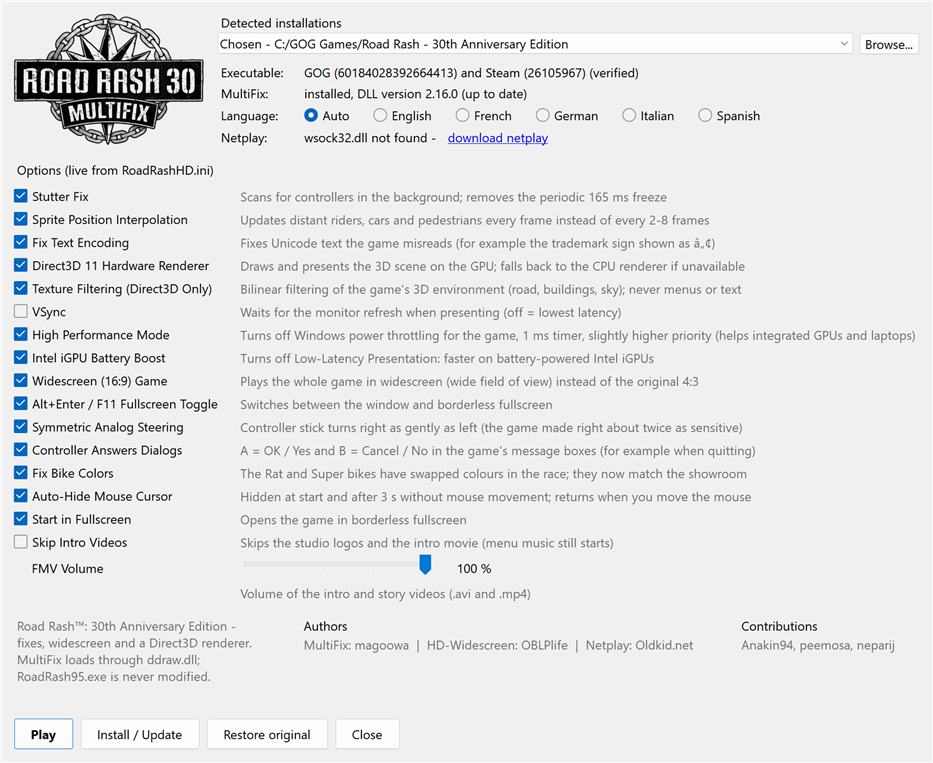
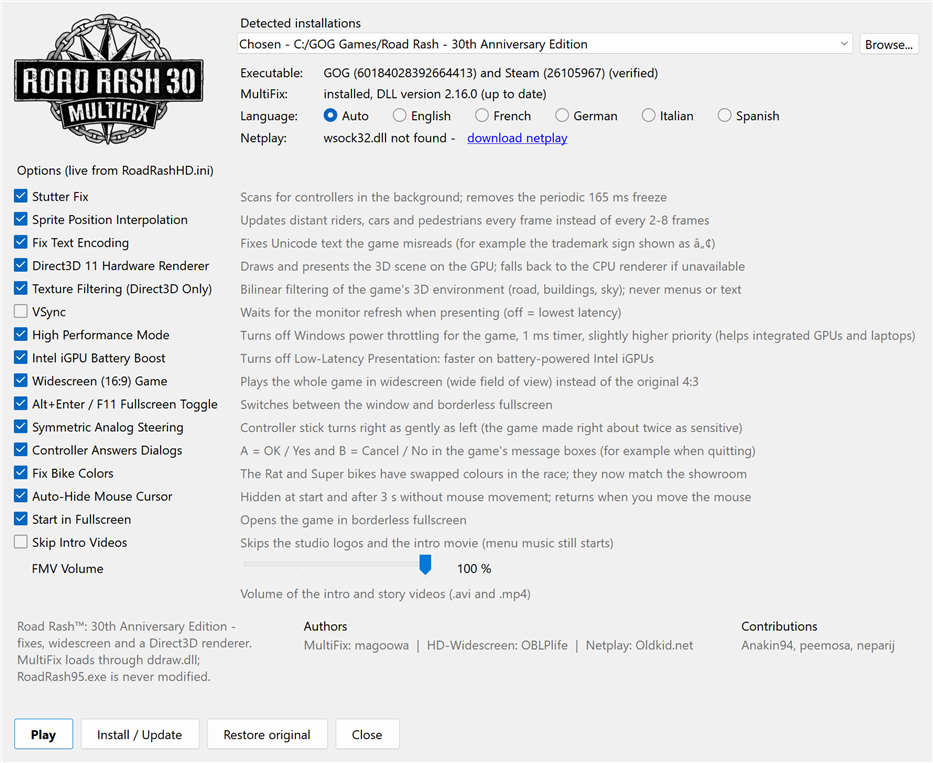
2.16.0: themed dialogs, commented ini, file properties, Steam Deck install script, window mode fix

Changed region(s): [[0.2176, 0.0, 0.8392, 0.211]]

diff --git a/PatchWindow.cs b/PatchWindow.cs
@@ -67,7 +67,7 @@ internal sealed class PatchWindow : Form
 
         // Top block: the logo on the left (a click opens the project page), installations and info on the right.
         var head = new TableLayoutPanel { Name = "HeadTable", AutoSize = true, AutoSizeMode = AutoSizeMode.GrowAndShrink, ColumnCount = 2, Dock = DockStyle.Fill, Margin = new Padding(0, 0, 0, m) };
-        head.ColumnStyles.Add(new ColumnStyle(SizeType.AutoSize)); head.ColumnStyles.Add(new ColumnStyle(SizeType.Percent, 100F));
+        head.ColumnStyles.Add(new ColumnStyle(SizeType.Absolute, 100F)); head.ColumnStyles.Add(new ColumnStyle(SizeType.Percent, 100F));   // first column: as wide as the option names, so the info block starts on the description column
         try
         {
             using (var stream = Assembly.GetExecutingAssembly().GetManifestResourceStream("logo.png"))
@@ -153,6 +153,14 @@ internal sealed class PatchWindow : Form
         credits.Controls.Add(new Label { Name = "ContributionsLabel", Text = "Anakin94, peemosa, neparij", AutoSize = true, ForeColor = SystemColors.GrayText, Margin = new Padding(0) }, 1, 1);
         footer.Controls.Add(credits, 1, 0);
         root.Controls.Add(footer);
+        // Only the info block at the top (installations, executable, MultiFix, language, netplay) is lined up: it starts on the
+        // column of the option descriptions, so the first column of the top block is as wide as the option names.
+        EventHandler alignHead = delegate
+        {
+            var widths = rows.GetColumnWidths();
+            if (widths.Length > 0 && (int)head.ColumnStyles[0].Width != widths[0]) head.ColumnStyles[0].Width = widths[0];
+        };
+        rows.SizeChanged += alignHead; rows.Layout += delegate { alignHead(null, EventArgs.Empty); };
 
         var buttons = new FlowLayoutPanel { AutoSize = true, AutoSizeMode = AutoSizeMode.GrowAndShrink, FlowDirection = FlowDirection.LeftToRight, WrapContents = false, Dock = DockStyle.Fill };
         Button[] all = { play, install, restore, new Button { Name = "CloseButton", Text = "Close", DialogResult = DialogResult.Cancel } };
@@ -175,7 +183,12 @@ internal sealed class PatchWindow : Form
         scroll.BringToFront();      // the fill panel is laid out last
         // The mouse wheel scrolls the content.
         scroll.MouseEnter += delegate { if (ActiveForm == this && !(ActiveControl is TextBox) && !(ActiveControl is ComboBox)) scroll.Focus(); };
-        root.SizeChanged += delegate { scroll.AutoScrollMinSize = new Size(root.PreferredSize.Width, root.Height); };
+        // A horizontal scroll bar only when the window is really narrower than the content (not because a vertical bar took its width).
+        root.SizeChanged += delegate
+        {
+            int need = root.PreferredSize.Width + (scroll.VerticalScroll.Visible ? SystemInformation.VerticalScrollBarWidth : 0);
+            scroll.AutoScrollMinSize = new Size(ClientSize.Width >= need ? 0 : root.PreferredSize.Width, root.Height);
+        };
 
         var found = Installer.Detect();
         if (initialFolder != null)
@@ -267,8 +280,9 @@ internal sealed class PatchWindow : Form
     // Tests: pretend the working area is this rectangle.
     internal static Rectangle? WorkingAreaOverride;
     // As large as the content needs, but never larger than the screen's working area; scroll bars take over beyond that.
-    void FitToScreen(Control root, Control bar, ScrollableControl scroll)
+    void FitToScreen(Control root, Control bar, ScrollableControl scroll, bool recenter = true)
     {
+        fitRoot = root; fitBar = bar; fitScroll = scroll;
         Rectangle area = WorkingAreaOverride ?? Screen.FromPoint(Cursor.Position).WorkingArea;
         Size chrome = IsHandleCreated ? Size - ClientSize : SizeFromClientSize(Size.Empty);   // the real frame once the window exists
         root.PerformLayout();
@@ -284,10 +298,18 @@ internal sealed class PatchWindow : Form
         }
         scroll.AutoScrollMinSize = new Size(wanted.Width, wanted.Height);
         ClientSize = new Size(Math.Min(width, maxWidth), Math.Min(height, maxHeight));
-        Location = new Point(area.Left + Math.Max(0, (area.Width - Width) / 2), area.Top + Math.Max(0, (area.Height - Height) / 2));
+        if (recenter) Location = new Point(area.Left + Math.Max(0, (area.Width - Width) / 2), area.Top + Math.Max(0, (area.Height - Height) / 2));
+        else Location = new Point(Location.X, Math.Max(area.Top, Math.Min(Location.Y, area.Bottom - Height)));
     }
 
-    void Say(string text) { status.Text = text; status.Visible = true; }
+    // The status line appears below the options: grow the window by its height (once) so nothing needs a scroll bar.
+    void Say(string text)
+    {
+        bool first = !status.Visible;
+        status.Text = text; status.Visible = true;
+        if (first && IsHandleCreated && fitRoot != null) FitToScreen(fitRoot, fitBar, fitScroll, false);
+    }
+    Control fitRoot, fitBar; ScrollableControl fitScroll;
 
     void SetFolder(string folder)
     {

diff --git a/Installer.cs b/Installer.cs
@@ -692,7 +692,7 @@ internal static class Installer
             if (changed) Apply(operations);
             // Earlier versions called the renderer RoadRashHD.dll; the proxy no longer loads it.
             try { string legacy = Path.Combine(game.Root, "RoadRashHD.dll"); if (File.Exists(legacy)) File.Delete(legacy); } catch (Exception) { }
-            if (!restore) WriteOptions(game, options ?? new Dictionary<string, bool>());
+            if (!restore) { MergeMissingIniKeys(game); WriteOptions(game, options ?? new Dictionary<string, bool>()); }
             if (!changed)
                 return Finish(game, restore ? "The game is already in its pre-install state." : "This version of MultiFix is already installed. Settings were updated.", false);
             return Finish(game, restore ? "ddraw.dll and RoadRashMultiFix.dll were removed (any earlier files were restored). RoadRashHD.ini was kept." :
@@ -705,6 +705,65 @@ internal static class Installer
                 message += "\nThe game folder is not writable. Run this patch as administrator (right-click, Run as administrator).";
             return Finish(game, message, true);
         }
+    }
+    // An older RoadRashHD.ini lacks the keys added later. They are added with the same explanatory comments as in the
+    // ini that ships with this version (a new ini is created from it), in the right section; nothing existing changes.
+    static void MergeMissingIniKeys(Game game)
+    {
+        try
+        {
+            string path = Path.Combine(game.Root, IniName);
+            if (!File.Exists(path)) return;
+            byte[] raw = File.ReadAllBytes(path);
+            if (raw.Length >= 2 && ((raw[0] == 0xFF && raw[1] == 0xFE) || (raw[0] == 0xFE && raw[1] == 0xFF))) return;   // UTF-16: leave it alone
+            Encoding encoding = Encoding.Default;
+            bool crlf = Encoding.ASCII.GetString(raw).Contains("\r\n");
+            var lines = new List<string>(encoding.GetString(raw).Replace("\r\n", "\n").Split('\n'));
+            if (lines.Count > 0 && lines[lines.Count - 1] == "") lines.RemoveAt(lines.Count - 1);
+            // the shipped ini: each key with the comment lines directly above it
+            string shipped = Encoding.UTF8.GetString(Resource(IniName)).Replace("\r\n", "\n");
+            string section = "";
+            var comments = new List<string>();
+            bool changed = false;
+            foreach (string line in shipped.Split('\n'))
+            {
+                string trimmed = line.Trim();
+                if (trimmed.Length == 0) { comments.Clear(); continue; }
+                if (trimmed.StartsWith(";")) { comments.Add(line); continue; }
+                if (trimmed.StartsWith("[") && trimmed.EndsWith("]")) { section = trimmed.Substring(1, trimmed.Length - 2); comments.Clear(); continue; }
+                int equals = trimmed.IndexOf('=');
+                if (equals <= 0 || section.Length == 0) { comments.Clear(); continue; }
+                string key = trimmed.Substring(0, equals).Trim();
+                // find the section and the key in the existing file
+                int sectionStart = -1, sectionEnd = lines.Count; bool found = false;
+                for (int i = 0; i < lines.Count; ++i)
+                {
+                    string current = lines[i].Trim();
+                    if (current.StartsWith("[") && current.EndsWith("]"))
+                    {
+                        if (sectionStart >= 0) { sectionEnd = i; break; }
+                        if (string.Equals(current.Substring(1, current.Length - 2).Trim(), section, StringComparison.OrdinalIgnoreCase)) sectionStart = i;
+                    }
+                    else if (sectionStart >= 0 && !current.StartsWith(";") && current.IndexOf('=') > 0 &&
+                             string.Equals(current.Substring(0, current.IndexOf('=')).Trim(), key, StringComparison.OrdinalIgnoreCase)) found = true;
+                }
+                if (!found)
+                {
+                    var add = new List<string>(comments); add.Add(line);
+                    if (sectionStart < 0) { lines.Add(""); lines.Add("[" + section + "]"); lines.AddRange(add); }
+                    else
+                    {
+                        int at = sectionEnd;   // after the last non-blank line of the section
+                        while (at > sectionStart + 1 && lines[at - 1].Trim().Length == 0) --at;
+                        lines.InsertRange(at, add);
+                    }
+                    changed = true;
+                }
+                comments.Clear();
+            }
+            if (changed) File.WriteAllText(path, string.Join(crlf ? "\r\n" : "\n", lines.ToArray()) + (crlf ? "\r\n" : "\n"), encoding);
+        }
+        catch (Exception) { }   // the options are still written key by key
     }
     static void WriteOptions(Game game, Dictionary<string, bool> options)
     {

diff --git a/build.py b/build.py
@@ -29,25 +29,51 @@ def mod_version():
     return re.search(r'RRHD_VERSION\s+"([^"]+)"', (ROOT / 'src/hd_version.hpp').read_text()).group(1)
 
 
+def version_resource(path, original_name, description):
+    """Writes a VERSIONINFO resource script: what Explorer shows in the file's Details tab."""
+    v = mod_version()
+    parts = (v.split('.') + ['0', '0', '0', '0'])[:4]
+    numeric = ','.join(parts)
+    fields = [('CompanyName', 'magoowa (based on OBLPlife RoadRash30th-HD)'),
+              ('FileDescription', description),
+              ('FileVersion', v),
+              ('InternalName', original_name),
+              ('LegalCopyright', 'PolyForm Noncommercial License 1.0.0. magoowa; based on OBLPlife RoadRash30th-HD'),
+              ('OriginalFilename', original_name),
+              ('ProductName', 'RoadRash30-MultiFix'),
+              ('ProductVersion', v),
+              ('Comments', 'Fixes, widescreen and a Direct3D 11 renderer for Road Rash: 30th Anniversary Edition. https://github.com/magoowa/RoadRash30-MultiFix')]
+    body = ''.join('            VALUE "%s", "%s\\0"\n' % (k, x) for k, x in fields)
+    text = ('#pragma code_page(65001)\n#include <windows.h>\n'
+            'VS_VERSION_INFO VERSIONINFO\n FILEVERSION %s\n PRODUCTVERSION %s\n FILEFLAGSMASK 0x3fL\n FILEFLAGS 0x0L\n FILEOS VOS_NT_WINDOWS32\n FILETYPE VFT_DLL\n FILESUBTYPE 0x0L\n'
+            'BEGIN\n    BLOCK "StringFileInfo"\n    BEGIN\n        BLOCK "040904b0"\n        BEGIN\n%s        END\n    END\n'
+            '    BLOCK "VarFileInfo"\n    BEGIN\n        VALUE "Translation", 0x409, 1200\n    END\nEND\n') % (numeric, numeric, body)
+    Path(path).write_text(text, encoding='utf-8')
+
+
 def build(vcvarsall, tests):
     work = ROOT / 'build'
     work.mkdir(exist_ok=True)
     version = mod_version()
     (work / 'Version.cs').write_text('internal static class ModInfo { public const string Version = "%s"; public const string Name = "RoadRash30-MultiFix"; }\n' % version, encoding='utf-8')
     (ROOT / 'dist').mkdir(exist_ok=True)
+    version_resource(work / 'renderer_version.rc', 'RoadRashMultiFix.dll', 'RoadRash30-MultiFix renderer and game fixes')
+    version_resource(work / 'ddraw_version.rc', 'ddraw.dll', 'RoadRash30-MultiFix loader (ddraw.dll proxy that loads RoadRashMultiFix.dll)')
     commands = ['@echo off', 'chcp 65001 >nul', f'call "{compiler_environment(vcvarsall)}" x86 >nul', 'if errorlevel 1 exit /b 1',
                 'cd /d "%~dp0.."',
                 'rc /nologo /fo build\\hd_menu.res src\\hd_menu.rc', 'if errorlevel 1 exit /b 1',
+                'rc /nologo /fo build\\renderer_version.res build\\renderer_version.rc', 'if errorlevel 1 exit /b 1',
+                'rc /nologo /fo build\\ddraw_version.res build\\ddraw_version.rc', 'if errorlevel 1 exit /b 1',
                 # Shaders are compiled here, not at run time (works under Wine/Proton, where d3dcompiler_47 may not cope).
                 'cl /nologo /std:c++17 /O2 /MT /EHsc /utf-8 tools\\compile_shaders.cpp /Fo:build\\compile_shaders.obj '
                 '/Fe:build\\compile_shaders.exe /link d3dcompiler.lib', 'if errorlevel 1 exit /b 1',
                 'build\\compile_shaders.exe build\\hd_shaders.inc', 'if errorlevel 1 exit /b 1',
                 'cl /nologo /std:c++17 /O2 /MT /EHsc /W4 /utf-8 /I build /LD src\\hd_renderer.cpp '
                 '/Fo:build\\hd_renderer.obj /Fe:build\\RoadRashMultiFix.dll /link /Brepro '
-                '/DEF:src\\hd_renderer.def build\\hd_menu.res user32.lib gdi32.lib advapi32.lib ole32.lib', 'if errorlevel 1 exit /b 1',
+                '/DEF:src\\hd_renderer.def build\\hd_menu.res build\\renderer_version.res user32.lib gdi32.lib advapi32.lib ole32.lib', 'if errorlevel 1 exit /b 1',
                 'cl /nologo /std:c++17 /O2 /MT /EHsc /W4 /utf-8 /LD src\\ddraw_proxy.cpp '
                 '/Fo:build\\ddraw_proxy.obj /Fe:build\\ddraw.dll /link /Brepro '
-                '/DEF:src\\ddraw_proxy.def user32.lib', 'if errorlevel 1 exit /b 1']
+                '/DEF:src\\ddraw_proxy.def build\\ddraw_version.res user32.lib', 'if errorlevel 1 exit /b 1']
     if tests:
         for name in ['hd_test', 'hd_loader_test', 'hd_perf_test', 'hd_animation_test', 'hd_gpu_test']:
             commands.extend([f'cl /nologo /std:c++17 /O2 /MT /EHsc /W4 /utf-8 /I build tests\\{name}.cpp '

diff --git a/src/hd_renderer.cpp b/src/hd_renderer.cpp
@@ -297,6 +297,16 @@ using OpenFileFn=BOOL(WINAPI*)(LPOPENFILENAMEA);
 OpenFileFn originalOpenFile=nullptr,originalSaveFile=nullptr;
 BOOL WINAPI getOpenFileNameHook(LPOPENFILENAMEA ofn){StyleScope scope;return originalOpenFile(ofn);}
 BOOL WINAPI getSaveFileNameHook(LPOPENFILENAMEA ofn){StyleScope scope;return originalSaveFile(ofn);}
+// Alt+F4 is also caught where the game dispatches its messages, so it closes the game whichever of its windows has the focus.
+using DispatchMessageFn=LRESULT(WINAPI*)(const MSG*);
+DispatchMessageFn originalDispatchMessage=nullptr;
+LRESULT WINAPI dispatchMessageHook(const MSG* message) {
+    if(message && message->message==WM_SYSKEYDOWN && message->wParam==VK_F4 && (message->lParam&(1<<29))) {
+        HWND target=hookedWindow?hookedWindow:GetAncestor(message->hwnd,GA_ROOTOWNER);
+        if(target){closeGame(target);return 0;}
+    }
+    return originalDispatchMessage(message);
+}
 LRESULT CALLBACK renderWindowProc(HWND window,UINT message,WPARAM wp,LPARAM lp) {
     if(autoHideCursor && cursorHidden && !IsWindowEnabled(window))showCursorAgain(window);
     if(autoHideCursor) {
@@ -1714,6 +1724,8 @@ bool initialize(HMODULE module) {
     {
         void* original=nullptr;   // window mode switch from the game menu, themed file dialogs
         if(hookImport(0x61c734,L"user32.dll","SetWindowPos",reinterpret_cast<void*>(&setWindowPosHook),&original))originalSetWindowPos=reinterpret_cast<SetWindowPosFn>(original);
+        original=nullptr;
+        if(hookImport(0x61c6e8,L"user32.dll","DispatchMessageA",reinterpret_cast<void*>(&dispatchMessageHook),&original))originalDispatchMessage=reinterpret_cast<DispatchMessageFn>(original);
         original=nullptr;
         if(hookImport(0x61c0b4,L"comdlg32.dll","GetOpenFileNameA",reinterpret_cast<void*>(&getOpenFileNameHook),&original))originalOpenFile=reinterpret_cast<OpenFileFn>(original);
         original=nullptr;

diff --git a/tests/test_window.cs b/tests/test_window.cs
@@ -90,6 +90,11 @@ internal static class WindowTest
                         if (c.Length != 1) throw new InvalidOperationException("Missing control " + name);
                         if (c[0].Left != edge) throw new InvalidOperationException(name + " must start at the common margin (" + edge + "), starts at " + c[0].Left);
                     }
+                    {   // the credits sit in the columns of the options: names under the option names, text under the descriptions
+                        var line = window.Controls.Find("VideoVolumeLine", true)[0]; 
+                        var info = window.Controls.Find("InstallPanel", true)[0];
+                        if (info.PointToScreen(Point.Empty).X != line.PointToScreen(Point.Empty).X) throw new InvalidOperationException("The installations block must start on the description column (" + info.PointToScreen(Point.Empty).X + " vs " + line.PointToScreen(Point.Empty).X + ")");
+                    }
                     var bar0 = window.Controls.Find("ButtonBar", true)[0]; var buttons0 = window.Controls.Find("PlayButton", true)[0].Parent;
                     if (buttons0.Left != bar0.Padding.Left || bar0.Padding.Left != edge) throw new InvalidOperationException("The buttons must use the same margin as the content (buttons " + buttons0.Left + ", bar padding " + bar0.Padding.Left + ", content " + edge + ")");
                     var logoBox = window.Controls.Find("LogoBox", true);

diff --git a/tests/test_installer.py b/tests/test_installer.py
@@ -45,7 +45,7 @@ def run(original_dir):
     def kept(ini):
         # The user's own values survive; keys missing from an older ini are added with defaults.
         text = ini.read_text(encoding='utf-8', errors='replace')
-        return 'RenderHeight=900' in text and '; preserve my settings' in text and 'TextureFilter=' in text
+        return 'RenderHeight=900' in text and '; preserve my settings' in text and 'TextureFilter=' in text and '; Smooth (bilinear) textures' in text
 
     def execute(game, *args, success=True):
         result = subprocess.run([str(game / 'HD_Resolution_Patch.exe'), '/quiet', '/path:' + str(game), *args], cwd=unrelated_cwd, timeout=30)

diff --git a/README.md b/README.md
@@ -27,9 +27,14 @@ Install copies `ddraw.dll`, `RoadRashMultiFix.dll` and (if missing) `RoadRashHD.
 
 The patch is a `ddraw.dll` proxy, so it can be loaded under Wine/Proton with a DLL override. **This is untested**; reports are welcome (please attach `RoadRashHD.log`).
 
-1. Download the release zip and use the `linux/` folder (it contains `install.sh`, `ddraw.dll`, `RoadRashMultiFix.dll` and `RoadRashHD.ini`).
-2. Run `./install.sh "/path/to/Road Rash 30th Anniversary Edition"` (the folder that contains `RoadRash95.exe`; for a Steam copy it is under `steamapps/common`). Add `--remove` to undo it.
-3. In Steam, set the launch option **`WINEDLLOVERRIDES="ddraw=n,b" %command%`** (outside Steam: `WINEDLLOVERRIDES="ddraw=n,b" wine RoadRash95.exe`).
+**The launch option in step 3 is required.** Dropping the files into the game folder is not enough: Proton only uses our `ddraw.dll` when told to, so without the launch option the game starts without MultiFix (and no `RoadRashHD.log` appears).
+
+1. Download the release zip and unpack it. The `linux/` folder holds `install.sh`, `ddraw.dll`, `RoadRashMultiFix.dll` and `RoadRashHD.ini`.
+2. Put the files into the game folder, the one that contains `RoadRash95.exe`. In Steam (Desktop mode): right-click the game, **Manage > Browse local files**. Either
+   - copy `ddraw.dll`, `RoadRashMultiFix.dll` and `RoadRashHD.ini` there by hand, or
+   - run the script from a terminal opened in the `linux` folder: `bash install.sh` (it finds the Steam copy, including one on the SD card, by itself) or `bash install.sh "/path/to/Road Rash 30th Anniversary Edition"`. Running it with `bash` needs no execute permission. `--remove` undoes it.
+3. In Steam open the game's **Properties > General > Launch Options** and paste **`WINEDLLOVERRIDES="ddraw=n,b" %command%`** (outside Steam: `WINEDLLOVERRIDES="ddraw=n,b" wine RoadRash95.exe`; Heroic and Lutris: add `WINEDLLOVERRIDES` = `ddraw=n,b` as an environment variable of the game).
+4. Start the game. `RoadRashHD.log` appears in the game folder; if it does not, the override was not applied.
 
 Notes: the Direct3D 11 renderer uses DXVK under Proton. Its shaders are compiled at build time, so no shader compiler is needed at run time. Under Wine the Direct3D surface is created on the game window itself (`[Graphics] ChildSurface=1` forces the Windows arrangement). If the picture is wrong, set `D3D11=0` in `RoadRashHD.ini` for the CPU renderer. `RoadRashHD.log` says "running under Wine ..." when Wine is detected.
 

diff --git a/CHANGELOG.md b/CHANGELOG.md
@@ -3,6 +3,9 @@
 ## 2.16.0
 
 - **High Performance mode** (`[Performance] HighPerformance`, launcher option, on by default): Windows power throttling (EcoQoS) off for the game, 1 ms timer, priority slightly above normal. Meant for laptops and integrated GPUs; no measurable difference on a machine that already held 60 fps.
+- **File properties:** `RoadRashMultiFix.dll` and `ddraw.dll` now carry a description, product name, version, copyright and project link in their Details tab.
+- **Linux / Steam Deck:** `install.sh` finds the Steam copy of the game by itself (internal storage, SD card, Flatpak Steam), shows its messages in a window when it is started without a terminal, and states clearly that the Steam launch option `WINEDLLOVERRIDES="ddraw=n,b" %command%` is required. The README explains the manual way too.
+- **Fully commented ini:** `RoadRashHD.ini` now lists every setting (also the advanced ones: `Enabled`, `RenderHeight`, `ChildSurface`, `Profile`, `Width`/`Height`, ...) with its default and an explanation. A new ini is created from it, and when an older ini is updated the missing keys are added with the same comments, in the right section; existing values and your own lines are not touched.
 - **Dialog look:** the game's own Open/Save dialogs and message boxes, and dialogs of other DLLs shown from the game thread (the netplay chooser), use the themed Windows look: the DLL carries a visual-styles (Common-Controls 6) manifest that is switched on for the game thread. The dialogs themselves are unchanged.
 - **Windowed mode from the game menu:** choosing "Windowed" in the game menu no longer shrinks the window to 4:3; it gets the size from `[Window] Width/Height` (or the automatic 16:9 size) like at start-up.
 - **Intel iGPU Battery Boost** (`[Performance] LowLatency=0`, launcher option, on by default): performance boost on battery-powered Intel iGPU. With `LowLatency=1` (waitable swap chain with one queued frame plus a tearing present) an Intel Iris Xe laptop on battery dropped from 60 to 45 fps (frame interval 16.7 to 22.2 ms, present about 17 ms instead of 0.9 ms); with it off the game ran at a steady 60 fps. The launcher check box is the inverse of the ini key.
